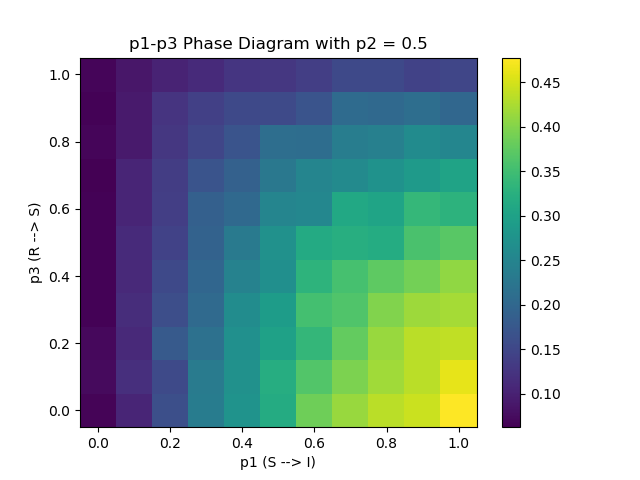
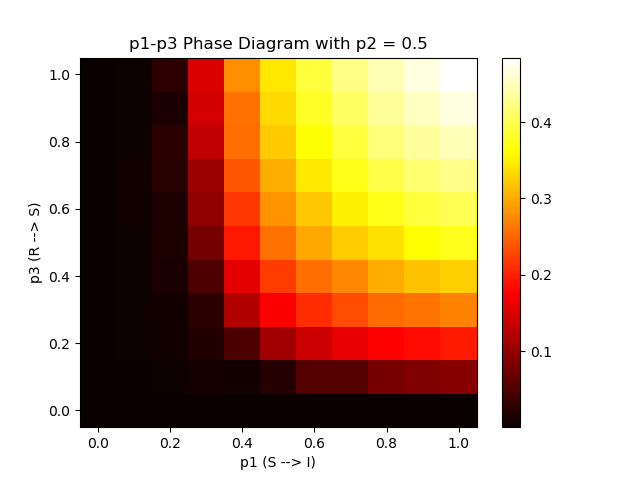
Fixed savefig() code and fixed axes labels.

diff --git a/SIRS.py b/SIRS.py
@@ -130,6 +130,26 @@ class SIRS(object):
         plt.savefig("phase_diagram.png")
         plt.show()
     
+    def plot_variance_contour(self, matrix, prob_step):
+        """
+            Phase diagram plotter - Each axis domain must be from
+            0 to 1 i.e. probabilities.
+        """
+        pmin = 0.0
+        pmax = 1.05
+        dp = prob_step
+        p1s_plot,p3s_plot = np.meshgrid(np.arange(pmin,pmax+dp,dp)-dp/2.,np.arange(pmin,pmax+dp,dp)-dp/2.)
+        plt.title('Variance Contour Plot Vs. p1, p3 (p2 = 0.5)')
+        plt.xlabel('p1 (S --> I)')
+        plt.ylabel('p3 (R --> S)')
+        plt.pcolormesh(p1s_plot, p3s_plot, matrix, cmap='hot')
+        plt.axis([p1s_plot.min(),p1s_plot.max(),p3s_plot.min(),p3s_plot.max()])
+        plt.xticks(np.arange(pmin,pmax,dp*2))
+        plt.yticks(np.arange(pmin,pmax,dp*2))
+        plt.colorbar()
+        plt.savefig("variance_contour.png")
+        plt.show()
+    
     def animate(self, *args):
         """
             Creates, saves and returns image of the current state of

diff --git a/SIRS_plotter.py b/SIRS_plotter.py
@@ -61,7 +61,8 @@ def main():
     
     # Plotting.
     simulation.plot_phase_diagram(phase_matrix, p_step)
-    simulation.plot_phase_diagram(var_matrix, p_step)
+    simulation.plot_variance_contour(var_matrix, p_step)
+    
     # Writing to file.
     np.savetxt("phase_data.dat", phase_matrix, fmt='%1.5f', delimiter=' ')
     np.savetxt("var_data.dat", var_matrix, fmt='%1.5f', delimiter=' ')
